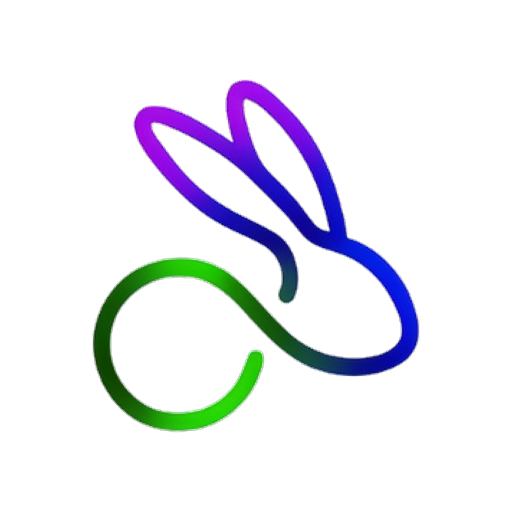
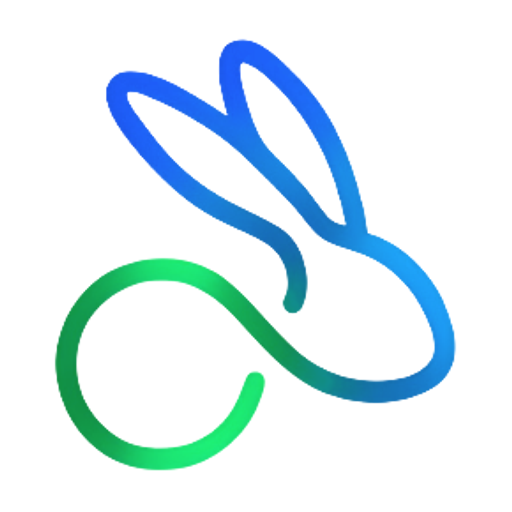
Add files via upload

Changed region(s): [[0.0938, 0.0625, 0.9062, 0.9375]]

diff --git a/index.html b/index.html
@@ -5,7 +5,7 @@
   <meta name="viewport" content="width=device-width, initial-scale=1, viewport-fit=cover">
   <title>Rabitu</title>
   <link rel="manifest" href="./manifest.json">
-  <link rel="icon" type="image/png" href="./assets/icon.png">
+  <link rel="icon" type="image/png" href="./assets/icon-v2.png">
   <link rel="preconnect" href="https://fonts.googleapis.com">
   <link rel="preconnect" href="https://fonts.gstatic.com" crossorigin>
   <link href="https://fonts.googleapis.com/css2?family=Outfit:wght@500;600;700&display=swap" rel="stylesheet">

diff --git a/css/components.css b/css/components.css
@@ -24,7 +24,7 @@
   width: 34px;
   height: 34px;
   border-radius: 8px;
-  background: url('../assets/icon.png') center/contain no-repeat;
+  background: url('../assets/icon-v2.png') center/contain no-repeat;
   display: inline-block;
   flex-shrink: 0;
 }
